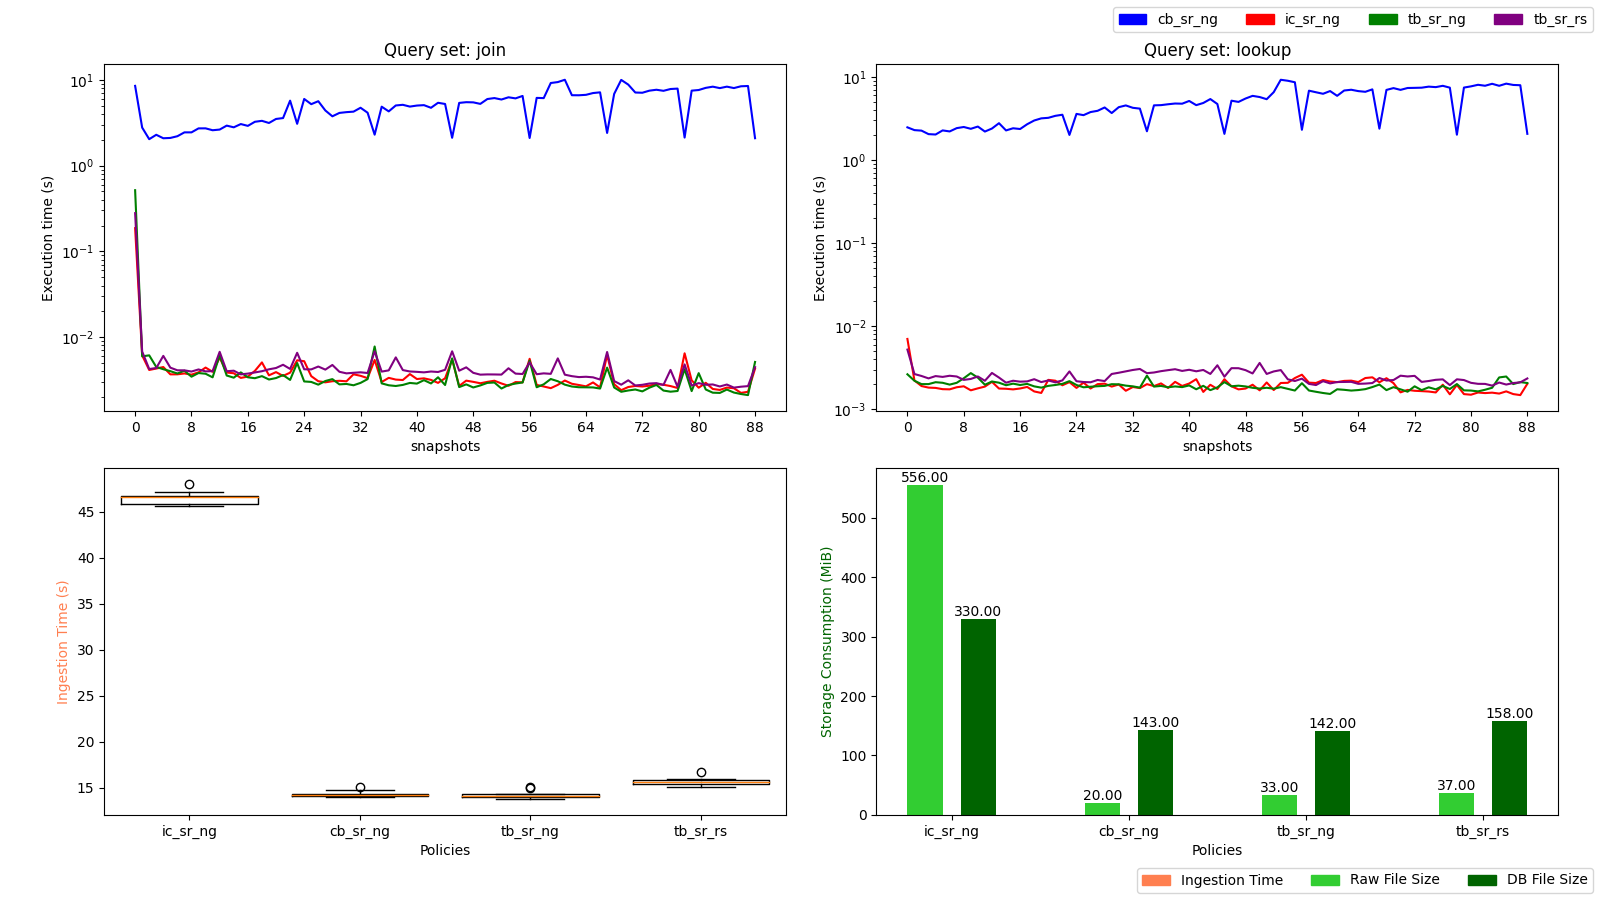
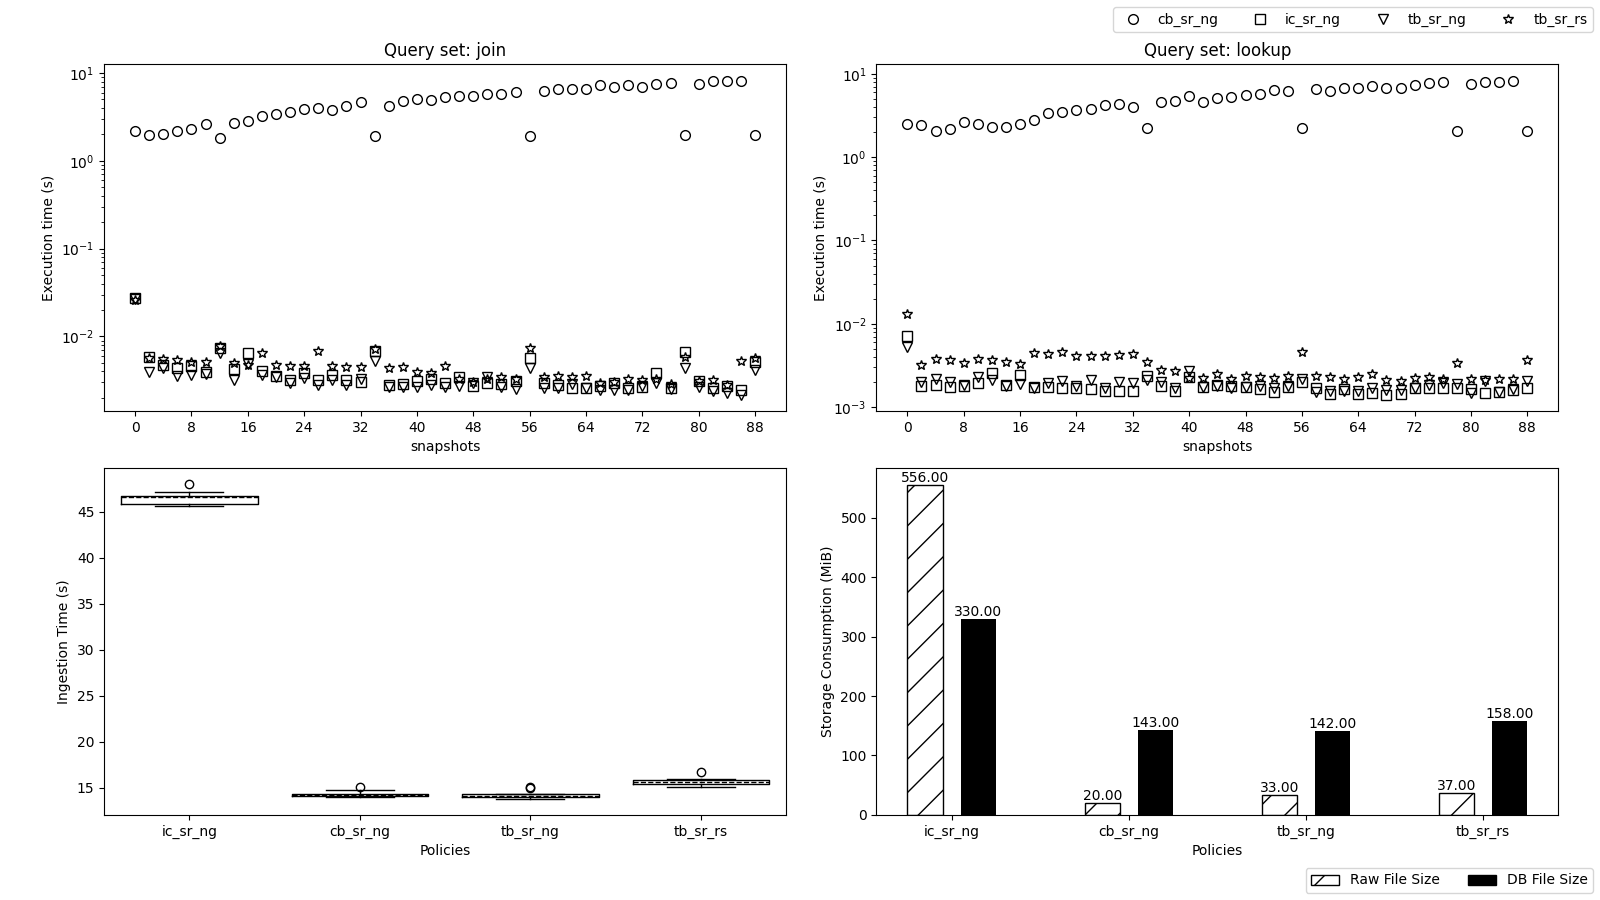
update plots, change from colors to symbols

diff --git a/scripts_dev/7_visualize/visualize.py b/scripts_dev/7_visualize/visualize.py
@@ -103,9 +103,13 @@ def create_plots(triplestore: str, dataset: str):
             db_size = policy_data["db_files_disk_usage_MiB"].mean()
             
             ax.boxplot(policy_data["ingestion_time"], positions=[i], widths=0.8, medianprops=dict(color='black', linestyle='--'))
+            
+            # Raw File Size Bar (dashed filling)
+            ax2.bar(i, raw_size, bar_width, alpha=opacity, hatch='/', color='white', edgecolor='black', label="Raw File Size")
 
-            ax2.bar(i, raw_size, bar_width, alpha=opacity, color='limegreen', label="Raw File Size")
-            ax2.bar(i + bar_width + spacing, db_size, bar_width, alpha=opacity, color='darkgreen', label="DB File Size")
+            # DB File Size Bar (solid black)
+            ax2.bar(i + bar_width + spacing, db_size, bar_width, alpha=opacity, color='black', label="DB File Size")
+
             ax2.text(i, raw_size, "{:.2f}".format(raw_size), ha='center', va='bottom')
             ax2.text(i + bar_width + spacing, db_size, "{:.2f}".format(db_size), ha='center', va='bottom')
     
@@ -118,7 +122,6 @@ def create_plots(triplestore: str, dataset: str):
         ax2.set_xticklabels(policies)
         ax2.set_xlabel("Policies")
         ax2.set_ylabel("Storage Consumption (MiB)")
-        ax2.yaxis.label.set_color('darkgreen')
 
     ax3 = fig.add_subplot(gs[1, 0])
     ax4 = fig.add_subplot(gs[1, 1])
@@ -129,17 +132,17 @@ def create_plots(triplestore: str, dataset: str):
     ###############################
 
     # Add legend
-    red_line = mlines.Line2D([], [], color='black', marker='s', linestyle='None', markersize=7, markeredgecolor='black', markerfacecolor='none', label='ic_sr_ng')
-    blue_line = mlines.Line2D([], [], color='black', marker='o', linestyle='None', markersize=7, markeredgecolor='black', markerfacecolor='none',label='cb_sr_ng')
-    green_line = mlines.Line2D([], [], color='black', marker='v', linestyle='None', markersize=7, markeredgecolor='black', markerfacecolor='none',label='tb_sr_ng')
-    purple_line = mlines.Line2D([], [], color='black', marker='*', linestyle='None', markersize=7, markeredgecolor='black', markerfacecolor='none',label='tb_sr_rs')
+    ic_sr_ng_line = mlines.Line2D([], [], color='black', marker='s', linestyle='None', markersize=7, markeredgecolor='black', markerfacecolor='none', label='ic_sr_ng')
+    cb_sr_ng_line = mlines.Line2D([], [], color='black', marker='o', linestyle='None', markersize=7, markeredgecolor='black', markerfacecolor='none',label='cb_sr_ng')
+    tb_sr_ng_line = mlines.Line2D([], [], color='black', marker='v', linestyle='None', markersize=7, markeredgecolor='black', markerfacecolor='none',label='tb_sr_ng')
+    tb_sr_rs_line = mlines.Line2D([], [], color='black', marker='*', linestyle='None', markersize=7, markeredgecolor='black', markerfacecolor='none',label='tb_sr_rs')
 
-    limegreen_patch = mpatches.Patch(color='limegreen', label='Raw File Size')
-    darkgreen_patch = mpatches.Patch(color='darkgreen', label='DB File Size')
+    raw_file_size_patch = mpatches.Patch(facecolor='white', edgecolor='black', hatch='/', label='Raw File Size')
+    db_file_size_path = mpatches.Patch(color='black', label='DB File Size')
 
-    handles1 = [red_line, blue_line, green_line, purple_line]
-    handles2 = [limegreen_patch, darkgreen_patch]
-    fixed_labels = ['limegreen_patch', 'darkgreen_patch']
+    handles1 = [ic_sr_ng_line, cb_sr_ng_line, tb_sr_ng_line, tb_sr_rs_line]
+    handles2 = [raw_file_size_patch, db_file_size_path]
+    fixed_labels = ['raw_file_size_patch', 'db_file_size_path']
 
     fig.legend(loc="upper right", ncol=4, handles=sorted(handles1, key=lambda x: x.get_label()))
     fig.legend(loc="lower right", ncol=3, handles=sorted(handles2, key=lambda x: fixed_labels.index(x.get_label()) if x.get_label() in fixed_labels else len(fixed_labels)))
